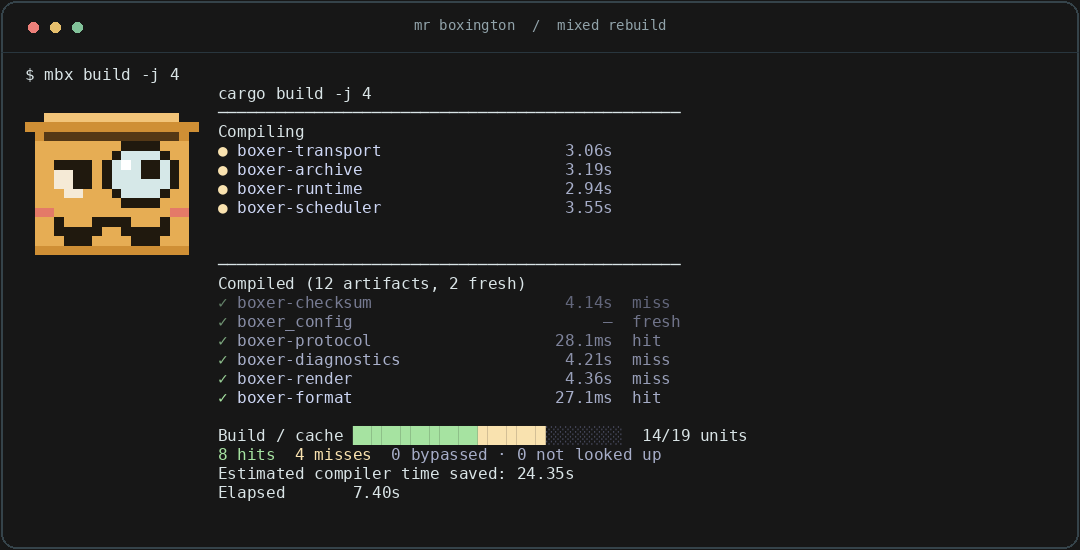
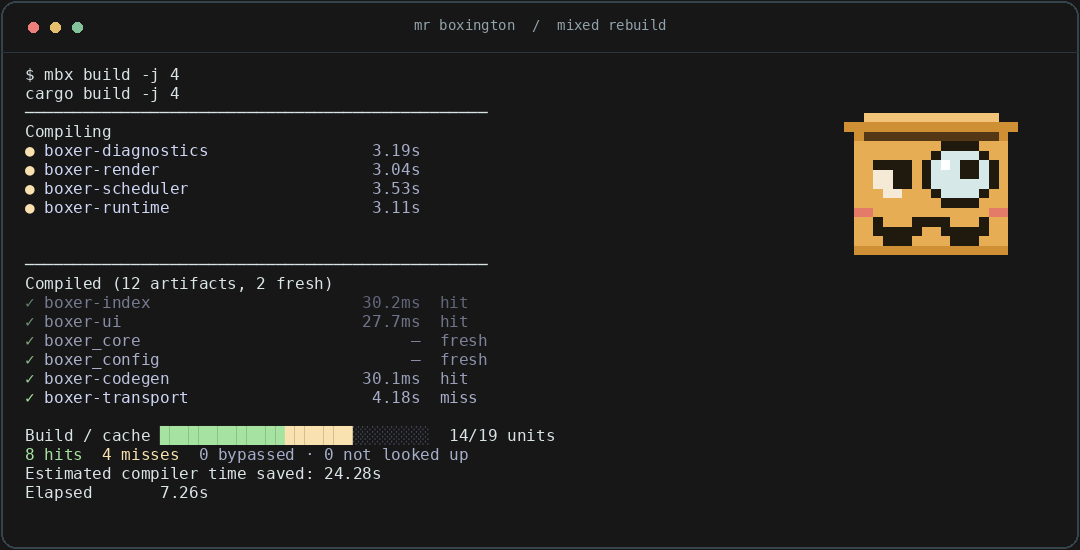
fix(pretty): move build mascot to the right

diff --git a/crates/mbx/src/cli/pretty/tests.rs b/crates/mbx/src/cli/pretty/tests.rs
@@ -480,9 +480,10 @@ fn mascot_keeps_progress_readable_and_stays_out_of_narrow_views() {
     let paint =
         |color: Option<mascot::Rgb>| color.map_or(Color::Reset, |(r, g, b)| Color::Rgb(r, g, b));
     let mut painted = vec![Vec::new(); mascot::HEIGHT];
+    let mascot_x = done.size().0 - mascot::WIDTH as u16;
     for (x, y, text, style) in done.runs() {
         for (i, glyph) in text.chars().enumerate() {
-            if usize::from(x) + i < mascot::WIDTH {
+            if usize::from(x) + i >= usize::from(mascot_x) {
                 painted[usize::from(y)].push((glyph, style.fg, style.bg));
             }
         }

diff --git a/crates/mbx/src/cli/pretty/view.rs b/crates/mbx/src/cli/pretty/view.rs
@@ -70,10 +70,10 @@ pub(super) fn render(
                         .bg(paint(run[0].bg))
                 }),
         )
-    }))
-    .w(WIDTH as u16 + 2);
-    let content = render_content(model, None, width - WIDTH as u16 - 2, height);
-    rimel::row([art, content])
+    }));
+    let content_width = width - WIDTH as u16 - 2;
+    let content = render_content(model, None, content_width, height).w(content_width);
+    rimel::row([content, rimel::text("  "), art])
 }
 
 fn render_content(
